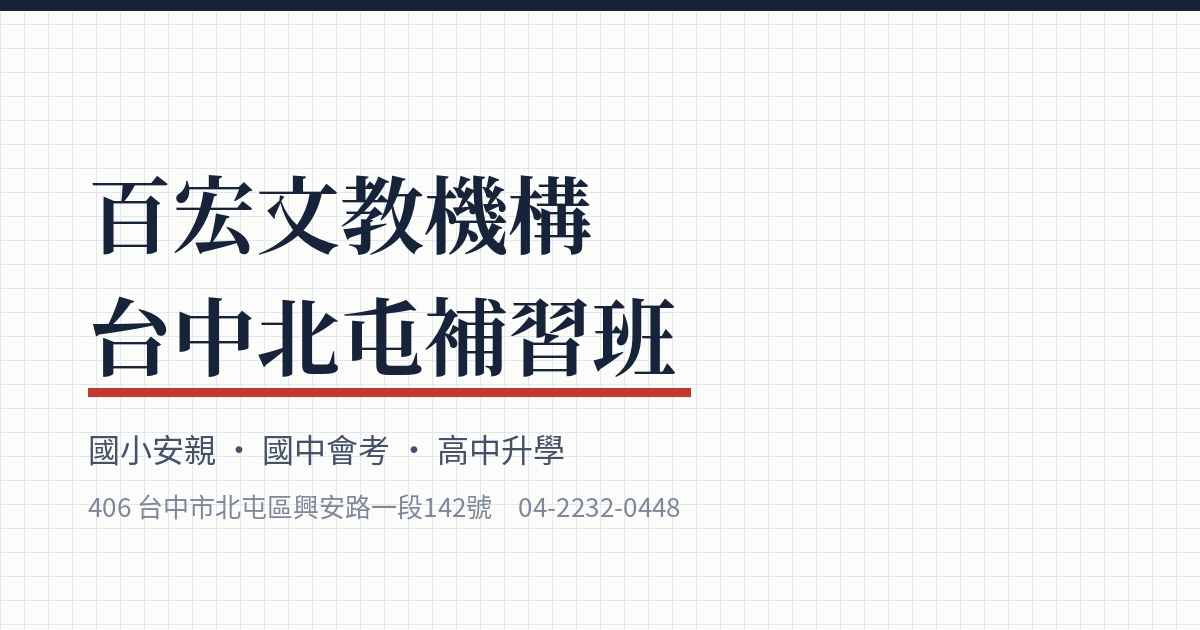
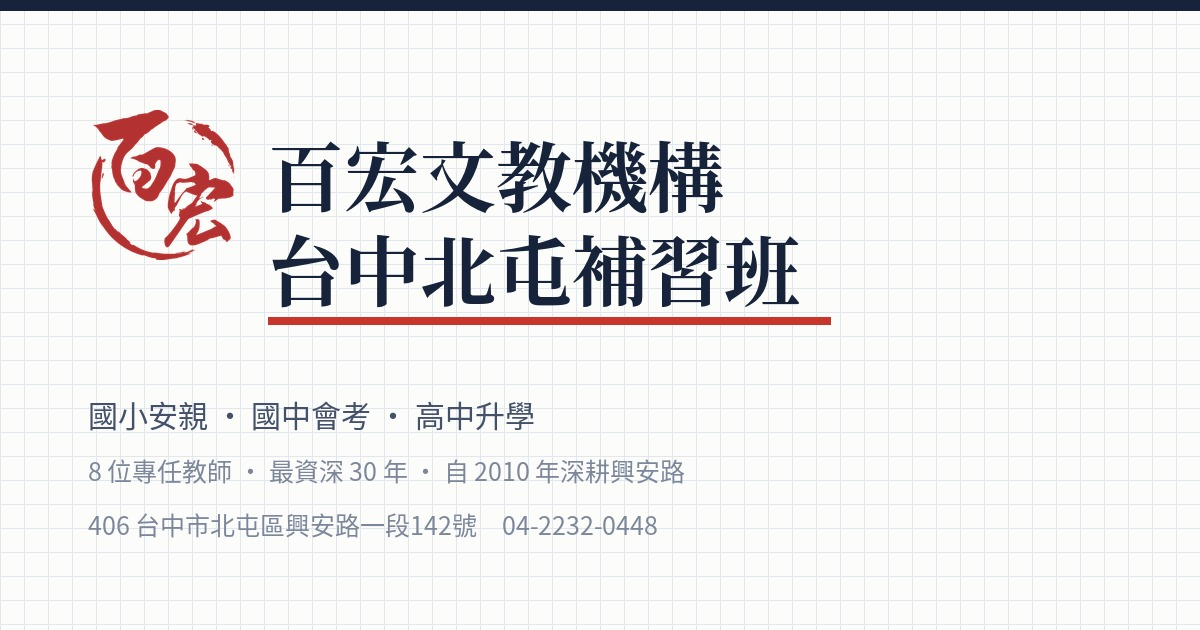
Add files via upload

Changed region(s): [[0.0617, 0.181, 0.7092, 0.8746]]

diff --git a/shizi.html b/shizi.html
@@ -4,7 +4,7 @@
 <meta charset="utf-8">
 <meta name="viewport" content="width=device-width,initial-scale=1">
 <title>師資介紹｜百宏文教機構｜台中北屯補習班</title>
-<meta name="description" content="百宏文教機構的教學團隊介紹。國中數學、理化、英文與國小安親師資，長期任教、熟悉北屯各校進度，每月主動與家長聯繫學習狀況。">
+<meta name="description" content="百宏文教機構的教學團隊，涵蓋班主任、各年級班導師、英文與數理專任教師，多位老師具15至30年教學經驗，長期深耕北屯區。">
 <link rel="canonical" href="https://www.bhcs.com.tw/shizi.html">
 <meta name="robots" content="index,follow,max-image-preview:large">
 <meta name="theme-color" content="#16233A">
@@ -12,7 +12,7 @@
 <meta property="og:site_name" content="百宏文教機構">
 <meta property="og:locale" content="zh_TW">
 <meta property="og:title" content="師資介紹｜百宏文教機構｜台中北屯補習班">
-<meta property="og:description" content="百宏文教機構的教學團隊介紹。國中數學、理化、英文與國小安親師資，長期任教、熟悉北屯各校進度，每月主動與家長聯繫學習狀況。">
+<meta property="og:description" content="百宏文教機構的教學團隊，涵蓋班主任、各年級班導師、英文與數理專任教師，多位老師具15至30年教學經驗，長期深耕北屯區。">
 <meta property="og:url" content="https://www.bhcs.com.tw/shizi.html">
 <meta property="og:image" content="https://www.bhcs.com.tw/assets/og.jpg">
 <meta name="twitter:card" content="summary_large_image">
@@ -33,6 +33,7 @@
 <header class="masthead">
   <div class="wrap bar">
     <a class="brand" href="index.html">
+      <img src="assets/logo.png" alt="百宏文教機構" width="38" height="38">
       <b>百宏文教</b><span>BHCS</span>
     </a>
     <button class="burger" aria-label="開啟選單" aria-expanded="false"><span></span></button>
@@ -54,7 +55,12 @@
     <div class="wrap">
       <p class="loc">認識我們 · 教學團隊</p>
       <h1>教得久，<br>才知道孩子<span class="mark mark-circle">會卡在哪<svg viewBox="0 0 200 60" preserveAspectRatio="none" aria-hidden="true"><path d="M100 4C52 3 8 14 6 30c-2 17 44 27 94 26 46-1 92-11 94-26 2-15-42-25-88-26"/></svg></span></h1>
-      <p class="lede">同一個單元教過十屆，你會知道學生第一次接觸時通常誤解在哪一句話。這種經驗沒有捷徑，只能靠年份累積。</p>
+      <p class="lede">同一個單元教過十屆，你會知道學生第一次接觸時通常誤解在哪一句話。這種經驗沒有捷徑，只能靠年份累積。我們團隊裡有 30 年、25 年、24 年資歷的老師。</p>
+      <dl class="report">
+        <div><dt>最資深</dt><dd class="num">30<small>年</small></dd></div>
+        <div><dt>專任教師</dt><dd class="num">8<small>位</small></dd></div>
+        <div><dt>分工</dt><dd class="num">分年段</dd></div>
+      </dl>
     </div>
   </section>
 
@@ -65,35 +71,108 @@
       <p><strong>第一，要能講出學生為什麼錯。</strong>批改不是打勾打叉。老師要能指出這一題失分的原因是觀念、是計算、還是題意誤解，因為這三種的補救方式完全不同。</p>
       <p><strong>第二，要跟得上各校進度。</strong>北屯區各校教科書版本與段考範圍不同，老師需要同時掌握多份進度表，並依此調整講義與複習內容。這件事很花時間，但這是補習班該做的事。</p>
       <p><strong>第三，要主動聯繫家長。</strong>不是等到成績出問題才打電話。每月固定回報，有狀況當週就講。</p>
+    </div>
+  </section>
 
-      <h2>教學團隊</h2>
-      <p class="lede" style="font-size:1rem;margin-bottom:2rem">以下為各科任課教師。實際授課老師依班別而定，歡迎於試聽時直接認識。</p>
+  <section class="sec-tint">
+    <div class="wrap">
+      <span class="eyebrow">教學團隊</span>
+      <h2>八位老師，各有守備範圍</h2>
+      <p class="lede" style="max-width:52ch;margin-bottom:2.4rem">國小依年段配置班導師，國中與高中則由英文、數理專任教師負責。實際授課老師依班別而定，歡迎於試聽時直接認識。</p>
+      <div class="staff">
 
-      <!-- ⚠ 上線前請完成：填入各位老師的任教科目與簡介，並換上真人照片 -->
-      <div class="cards">
-        <div class="card">
-          <span class="tag">任教科目 <span class="todo">待補</span></span>
-          <h3>劉美蕙 老師</h3>
-          <p><span class="todo">待補</span> 請填入任教科目、年資與教學特色。建議 60–100 字，具體描述這位老師擅長處理什麼樣的學生問題。</p>
+        <div class="staff-card">
+          <img src="assets/teachers/yu.jpg" alt="余承晏老師" loading="lazy" width="92" height="92">
+          <div>
+            <span class="role">班主任</span>
+            <h3>余承晏</h3>
+            <span class="yrs">24 年教學經驗</span>
+            <p class="motto">「為孩子點燃希望，陪伴他走向更好的自己。」</p>
+            <p>陪伴國小至高中學生成長，重視自主學習與品格養成，透過因材施教幫助孩子建立自信與學習動力。</p>
+          </div>
         </div>
-        <div class="card">
-          <span class="tag">任教科目 <span class="todo">待補</span></span>
-          <h3>薛季穎 老師</h3>
-          <p><span class="todo">待補</span> 請填入任教科目、年資與教學特色。</p>
+
+        <div class="staff-card">
+          <img src="assets/teachers/wu.jpg" alt="巫奕潔老師" loading="lazy" width="92" height="92">
+          <div>
+            <span class="role">低年級班導師</span>
+            <h3>巫奕潔　<span style="font-family:var(--mono);font-size:.8rem;font-weight:400;color:var(--ink-faint)">Jessie</span></h3>
+            <span class="yrs">30 年教育經驗</span>
+            <p class="motto">「每個孩子都有自己的步伐與光芒。」</p>
+            <p>始終相信理解比要求更重要。透過耐心陪伴與細心觀察，幫助孩子建立自信與學習習慣，讓每個孩子都能在被看見與被支持中穩定成長。</p>
+          </div>
         </div>
-        <div class="card">
-          <span class="tag">任教科目 <span class="todo">待補</span></span>
-          <h3>巫奕潔 老師</h3>
-          <p><span class="todo">待補</span> 請填入任教科目、年資與教學特色。</p>
+
+        <div class="staff-card">
+          <img src="assets/teachers/liu.jpg" alt="劉美蕙老師" loading="lazy" width="92" height="92">
+          <div>
+            <span class="role">中年級班導師</span>
+            <h3>劉美蕙</h3>
+            <p class="motto">「基礎打穩了，後面才走得快。」</p>
+            <p>為孩子奠定良好的基礎，訓練孩子養成細心的習慣。除了課業，也注重學習態度、常規、品行與禮貌，期許孩子能夠開心快樂學習。</p>
+          </div>
         </div>
-        <div class="card">
-          <span class="tag">任教科目 <span class="todo">待補</span></span>
-          <h3>趙慶瑜 老師</h3>
-          <p><span class="todo">待補</span> 請填入任教科目、年資與教學特色。</p>
+
+        <div class="staff-card">
+          <img src="assets/teachers/hsueh.jpg" alt="薛季穎老師" loading="lazy" width="92" height="92">
+          <div>
+            <span class="role">高年級班導師</span>
+            <h3>薛季穎</h3>
+            <span class="yrs">15 年教學經驗</span>
+            <p class="motto">「讓孩子看見自己的價值與無限可能。」</p>
+            <p>重視自信培養與自主思考能力，透過陪伴與鼓勵，引導孩子突破學習挑戰。</p>
+          </div>
         </div>
+
+        <div class="staff-card">
+          <img src="assets/teachers/chao.jpg" alt="趙慶瑜老師" loading="lazy" width="92" height="92">
+          <div>
+            <span class="role">國小部 · 輔導老師</span>
+            <h3>趙慶瑜</h3>
+            <p class="motto">「陪伴孩子慢慢長大，是教育最美的風景。」</p>
+            <p>擅長陪伴慢熱與缺乏自信的孩子，透過溫柔而堅定的引導，幫助孩子建立安全感與表達能力。相信每個孩子都有自己的步調，只要被理解與鼓勵，就能綻放屬於自己的光芒。</p>
+          </div>
+        </div>
+
+        <div class="staff-card">
+          <img src="assets/teachers/liao.jpg" alt="廖嘉慧老師" loading="lazy" width="92" height="92">
+          <div>
+            <span class="role">英文老師</span>
+            <h3>廖嘉慧　<span style="font-family:var(--mono);font-size:.8rem;font-weight:400;color:var(--ink-faint)">Mandy</span></h3>
+            <span class="yrs">25 年教學經驗</span>
+            <p class="motto">「讓孩子有自信，英文學習就不再困難。」</p>
+            <p>擅長陪伴缺乏自信的孩子建立學習動力。透過情境教學與閱讀訓練，引導孩子找到適合自己的學習方式，穩健累積英文實力。</p>
+          </div>
+        </div>
+
+        <div class="staff-card">
+          <img src="assets/teachers/chen.jpg" alt="陳睿堂老師" loading="lazy" width="92" height="92">
+          <div>
+            <span class="role">數理老師</span>
+            <h3>陳睿堂　<span style="font-family:var(--mono);font-size:.8rem;font-weight:400;color:var(--ink-faint)">Max</span></h3>
+            <p class="motto">「看見孩子的優點，讓成長自然發生。」</p>
+            <p>擅長將複雜的數理概念化繁為簡，透過循序漸進的引導與鼓勵，幫助孩子建立信心與解決問題的能力。重視陪伴與溝通，讓孩子從害怕學習到勇於挑戰自己。</p>
+          </div>
+        </div>
+
+        <div class="staff-card">
+          <img src="assets/teachers/lin.jpg" alt="林鳳玲老師" loading="lazy" width="92" height="92">
+          <div>
+            <span class="role">行政櫃台</span>
+            <h3>林鳳玲</h3>
+            <p class="motto">「百宏是孩子們第二個溫暖的家。」</p>
+            <p>站在第一線負責出缺席確認、作業追蹤與家長聯繫。每天看到孩子開開心心快快樂樂的笑容，是最開心的一件事。</p>
+          </div>
+        </div>
+
       </div>
+      <p style="margin-top:1.6rem;font-size:.86rem;color:var(--ink-faint)">※ 教師形象採插畫呈現。</p>
+    </div>
+  </section>
 
-      <h2>行政團隊</h2>
+  <section>
+    <div class="wrap-narrow prose">
+      <h2>行政與課務</h2>
       <p>除了任課老師，我們有專責的行政與輔導人員，負責出缺席確認、作業追蹤、家長聯繫與課務安排。孩子當天沒到班，我們會主動聯繫家長確認，而不是等到下次上課才發現。</p>
 
       <h2>來看看老師怎麼上課</h2>
@@ -110,7 +189,7 @@
   <div class="wrap">
     <div class="foot-grid">
       <div>
-        <div class="brandline">百宏文教機構</div>
+        <div class="brandline"><img src="assets/logo.png" alt="" width="30" height="30">百宏文教機構</div>
         <p style="margin-bottom:.8em">台中市私立百宏文理短期補習班<br>自 2010 年深耕台中北屯</p>
         <p style="margin:0">
           406台中市北屯區興安路一段142號<br>

diff --git a/assets/style.css b/assets/style.css
@@ -111,7 +111,8 @@ section{padding-block:clamp(3.2rem,7vw,5.4rem)}
   backdrop-filter:blur(10px);border-bottom:1px solid var(--grid);
 }
 .masthead .bar{display:flex;align-items:center;gap:1rem;height:66px}
-.brand{display:flex;align-items:baseline;gap:.55rem;text-decoration:none;flex:0 0 auto}
+.brand{display:flex;align-items:center;gap:.5rem;text-decoration:none;flex:0 0 auto}
+.brand img{display:block;width:38px;height:38px;object-fit:contain}
 .brand b{font-family:var(--serif);font-weight:900;font-size:1.28rem;letter-spacing:.02em}
 .brand span{font-family:var(--mono);font-size:.68rem;letter-spacing:.2em;color:var(--ink-faint)}
 .nav{margin-left:auto;display:flex;gap:.15rem;align-items:center}
@@ -292,7 +293,23 @@ td .num{font-weight:600}
 .foot li{margin-bottom:.55rem}
 .foot .legal{border-top:1px solid #2C3A54;padding-top:1.5rem;font-size:.82rem;
   display:flex;justify-content:space-between;gap:1rem;flex-wrap:wrap;color:#7F8DA3}
-.foot .brandline{font-family:var(--serif);font-weight:900;color:#fff;font-size:1.2rem;margin-bottom:.6rem}
+.foot .brandline{font-family:var(--serif);font-weight:900;color:#fff;font-size:1.2rem;margin-bottom:.6rem;
+  display:flex;align-items:center;gap:.5rem}
+.foot .brandline img{width:30px;height:30px;object-fit:contain;filter:brightness(0) invert(1)}
+
+/* 師資卡 */
+.staff{display:grid;gap:1.1rem;grid-template-columns:repeat(auto-fit,minmax(300px,1fr))}
+.staff-card{background:var(--paper);border:1px solid var(--grid-strong);border-radius:var(--radius);
+  padding:1.4rem;display:flex;gap:1.15rem;align-items:flex-start}
+.staff-card img{width:92px;height:92px;flex:0 0 92px;border-radius:50%;object-fit:cover;
+  background:var(--surface);border:1px solid var(--grid-strong)}
+.staff-card .role{font-family:var(--mono);font-size:.72rem;letter-spacing:.14em;color:var(--red);
+  display:block;margin-bottom:.4rem}
+.staff-card h3{font-size:1.12rem;margin-bottom:.15em}
+.staff-card .yrs{font-family:var(--mono);font-size:.82rem;color:var(--ink-faint);margin-bottom:.6rem;display:block}
+.staff-card .motto{font-weight:700;font-size:.95rem;margin:0 0 .45em;color:var(--ink)}
+.staff-card p{font-size:.9rem;line-height:1.7;color:var(--ink-soft);margin:0}
+@media(max-width:420px){.staff-card{flex-direction:column}.staff-card img{width:80px;height:80px;flex:none}}
 
 /* ---------- 手機底部固定操作列 ---------- */
 .dock{

diff --git a/lianluo.html b/lianluo.html
@@ -33,6 +33,7 @@
 <header class="masthead">
   <div class="wrap bar">
     <a class="brand" href="index.html">
+      <img src="assets/logo.png" alt="百宏文教機構" width="38" height="38">
       <b>百宏文教</b><span>BHCS</span>
     </a>
     <button class="burger" aria-label="開啟選單" aria-expanded="false"><span></span></button>
@@ -65,7 +66,7 @@
           <span class="eyebrow">預約試聽</span>
           <h2>留下資料，我們回電</h2>
           <div class="formcard">
-            <form id="trial-form" action="https://formspree.io/f/xyegqpwv" method="POST">
+            <form id="trial-form" action="https://formspree.io/f/YOUR_FORM_ID" method="POST">
               <div class="field-row">
                 <div class="field">
                   <label for="pname">家長姓名</label>
@@ -169,7 +170,7 @@
   <div class="wrap">
     <div class="foot-grid">
       <div>
-        <div class="brandline">百宏文教機構</div>
+        <div class="brandline"><img src="assets/logo.png" alt="" width="30" height="30">百宏文教機構</div>
         <p style="margin-bottom:.8em">台中市私立百宏文理短期補習班<br>自 2010 年深耕台中北屯</p>
         <p style="margin:0">
           406台中市北屯區興安路一段142號<br>

diff --git a/chengguo.html b/chengguo.html
@@ -33,6 +33,7 @@
 <header class="masthead">
   <div class="wrap bar">
     <a class="brand" href="index.html">
+      <img src="assets/logo.png" alt="百宏文教機構" width="38" height="38">
       <b>百宏文教</b><span>BHCS</span>
     </a>
     <button class="burger" aria-label="開啟選單" aria-expanded="false"><span></span></button>
@@ -104,7 +105,7 @@
   <div class="wrap">
     <div class="foot-grid">
       <div>
-        <div class="brandline">百宏文教機構</div>
+        <div class="brandline"><img src="assets/logo.png" alt="" width="30" height="30">百宏文教機構</div>
         <p style="margin-bottom:.8em">台中市私立百宏文理短期補習班<br>自 2010 年深耕台中北屯</p>
         <p style="margin:0">
           406台中市北屯區興安路一段142號<br>

diff --git a/gaozhong.html b/gaozhong.html
@@ -33,6 +33,7 @@
 <header class="masthead">
   <div class="wrap bar">
     <a class="brand" href="index.html">
+      <img src="assets/logo.png" alt="百宏文教機構" width="38" height="38">
       <b>百宏文教</b><span>BHCS</span>
     </a>
     <button class="burger" aria-label="開啟選單" aria-expanded="false"><span></span></button>
@@ -127,7 +128,7 @@
   <div class="wrap">
     <div class="foot-grid">
       <div>
-        <div class="brandline">百宏文教機構</div>
+        <div class="brandline"><img src="assets/logo.png" alt="" width="30" height="30">百宏文教機構</div>
         <p style="margin-bottom:.8em">台中市私立百宏文理短期補習班<br>自 2010 年深耕台中北屯</p>
         <p style="margin:0">
           406台中市北屯區興安路一段142號<br>

diff --git a/guoxiao.html b/guoxiao.html
@@ -33,6 +33,7 @@
 <header class="masthead">
   <div class="wrap bar">
     <a class="brand" href="index.html">
+      <img src="assets/logo.png" alt="百宏文教機構" width="38" height="38">
       <b>百宏文教</b><span>BHCS</span>
     </a>
     <button class="burger" aria-label="開啟選單" aria-expanded="false"><span></span></button>
@@ -113,7 +114,7 @@
   <div class="wrap">
     <div class="foot-grid">
       <div>
-        <div class="brandline">百宏文教機構</div>
+        <div class="brandline"><img src="assets/logo.png" alt="" width="30" height="30">百宏文教機構</div>
         <p style="margin-bottom:.8em">台中市私立百宏文理短期補習班<br>自 2010 年深耕台中北屯</p>
         <p style="margin:0">
           406台中市北屯區興安路一段142號<br>

diff --git a/guozhong-lihua.html b/guozhong-lihua.html
@@ -33,6 +33,7 @@
 <header class="masthead">
   <div class="wrap bar">
     <a class="brand" href="index.html">
+      <img src="assets/logo.png" alt="百宏文教機構" width="38" height="38">
       <b>百宏文教</b><span>BHCS</span>
     </a>
     <button class="burger" aria-label="開啟選單" aria-expanded="false"><span></span></button>
@@ -126,7 +127,7 @@
   <div class="wrap">
     <div class="foot-grid">
       <div>
-        <div class="brandline">百宏文教機構</div>
+        <div class="brandline"><img src="assets/logo.png" alt="" width="30" height="30">百宏文教機構</div>
         <p style="margin-bottom:.8em">台中市私立百宏文理短期補習班<br>自 2010 年深耕台中北屯</p>
         <p style="margin:0">
           406台中市北屯區興安路一段142號<br>

diff --git a/guozhong-shuxue.html b/guozhong-shuxue.html
@@ -33,6 +33,7 @@
 <header class="masthead">
   <div class="wrap bar">
     <a class="brand" href="index.html">
+      <img src="assets/logo.png" alt="百宏文教機構" width="38" height="38">
       <b>百宏文教</b><span>BHCS</span>
     </a>
     <button class="burger" aria-label="開啟選單" aria-expanded="false"><span></span></button>
@@ -124,7 +125,7 @@
   <div class="wrap">
     <div class="foot-grid">
       <div>
-        <div class="brandline">百宏文教機構</div>
+        <div class="brandline"><img src="assets/logo.png" alt="" width="30" height="30">百宏文教機構</div>
         <p style="margin-bottom:.8em">台中市私立百宏文理短期補習班<br>自 2010 年深耕台中北屯</p>
         <p style="margin:0">
           406台中市北屯區興安路一段142號<br>

diff --git a/guozhong-yingwen.html b/guozhong-yingwen.html
@@ -33,6 +33,7 @@
 <header class="masthead">
   <div class="wrap bar">
     <a class="brand" href="index.html">
+      <img src="assets/logo.png" alt="百宏文教機構" width="38" height="38">
       <b>百宏文教</b><span>BHCS</span>
     </a>
     <button class="burger" aria-label="開啟選單" aria-expanded="false"><span></span></button>
@@ -112,7 +113,7 @@
   <div class="wrap">
     <div class="foot-grid">
       <div>
-        <div class="brandline">百宏文教機構</div>
+        <div class="brandline"><img src="assets/logo.png" alt="" width="30" height="30">百宏文教機構</div>
         <p style="margin-bottom:.8em">台中市私立百宏文理短期補習班<br>自 2010 年深耕台中北屯</p>
         <p style="margin:0">
           406台中市北屯區興安路一段142號<br>

diff --git a/guozhong.html b/guozhong.html
@@ -33,6 +33,7 @@
 <header class="masthead">
   <div class="wrap bar">
     <a class="brand" href="index.html">
+      <img src="assets/logo.png" alt="百宏文教機構" width="38" height="38">
       <b>百宏文教</b><span>BHCS</span>
     </a>
     <button class="burger" aria-label="開啟選單" aria-expanded="false"><span></span></button>
@@ -151,7 +152,7 @@
   <div class="wrap">
     <div class="foot-grid">
       <div>
-        <div class="brandline">百宏文教機構</div>
+        <div class="brandline"><img src="assets/logo.png" alt="" width="30" height="30">百宏文教機構</div>
         <p style="margin-bottom:.8em">台中市私立百宏文理短期補習班<br>自 2010 年深耕台中北屯</p>
         <p style="margin:0">
           406台中市北屯區興安路一段142號<br>

diff --git a/index.html b/index.html
@@ -33,6 +33,7 @@
 <header class="masthead">
   <div class="wrap bar">
     <a class="brand" href="index.html">
+      <img src="assets/logo.png" alt="百宏文教機構" width="38" height="38">
       <b>百宏文教</b><span>BHCS</span>
     </a>
     <button class="burger" aria-label="開啟選單" aria-expanded="false"><span></span></button>
@@ -184,7 +185,7 @@
   <div class="wrap">
     <div class="foot-grid">
       <div>
-        <div class="brandline">百宏文教機構</div>
+        <div class="brandline"><img src="assets/logo.png" alt="" width="30" height="30">百宏文教機構</div>
         <p style="margin-bottom:.8em">台中市私立百宏文理短期補習班<br>自 2010 年深耕台中北屯</p>
         <p style="margin:0">
           406台中市北屯區興安路一段142號<br>

diff --git a/ziyuan.html b/ziyuan.html
@@ -33,6 +33,7 @@
 <header class="masthead">
   <div class="wrap bar">
     <a class="brand" href="index.html">
+      <img src="assets/logo.png" alt="百宏文教機構" width="38" height="38">
       <b>百宏文教</b><span>BHCS</span>
     </a>
     <button class="burger" aria-label="開啟選單" aria-expanded="false"><span></span></button>
@@ -107,7 +108,7 @@
   <div class="wrap">
     <div class="foot-grid">
       <div>
-        <div class="brandline">百宏文教機構</div>
+        <div class="brandline"><img src="assets/logo.png" alt="" width="30" height="30">百宏文教機構</div>
         <p style="margin-bottom:.8em">台中市私立百宏文理短期補習班<br>自 2010 年深耕台中北屯</p>
         <p style="margin:0">
           406台中市北屯區興安路一段142號<br>
